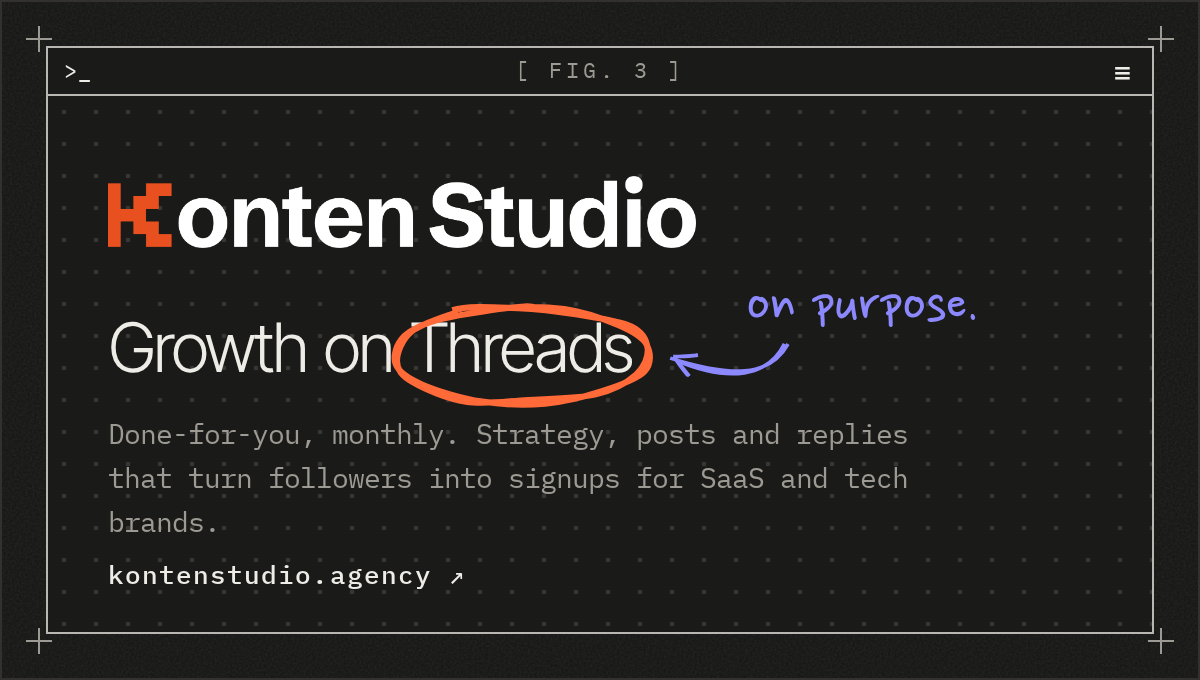
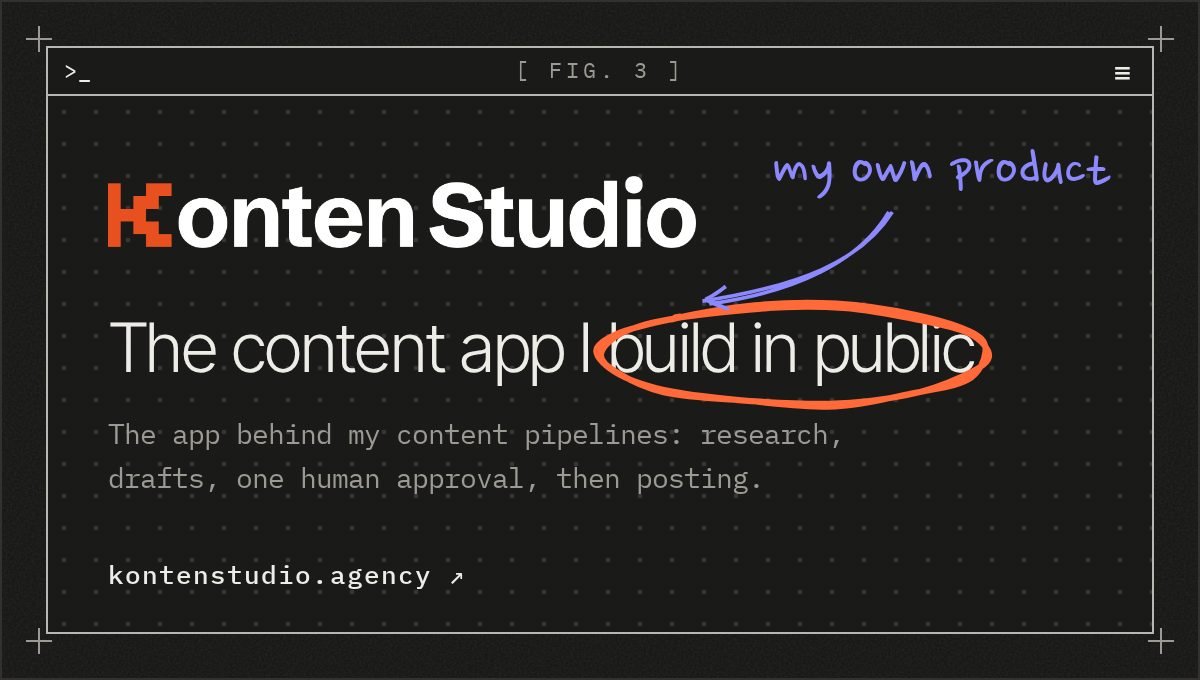
README v2: KS card as my own product built in public (no agency pitch) (#3)
Claude-Session: https://claude.ai/code/session_011L3ztk5N3UU8tGYwqkDUSE

diff --git a/src/build.py b/src/build.py
@@ -82,7 +82,7 @@ document.fonts.ready.then(()=>Promise.all([...document.images].map(i=>i.decode()
 AVATAR = (HERE / "avatar.svg").read_text().replace("<svg ", '<svg class="avatar" ', 1)
 AB = SP / "ai-builders-id_logo/01-primary"
 PK = SP.parent.parent / "peakspec/prototype-peakspec-app/v3/design/brand-kit/logo"  # peakspec v3 brand kit (mark only)
-KS = SP / "konten-studio_logo/01-primary"
+KS = SP.parent.parent / "konten-studio/logo/01-primary"  # repo konten-studio/logo
 
 # ---------------- hero ----------------
 HERO = dict(w=1200, h=580, style="""
@@ -152,11 +152,11 @@ def cards():
   const n=box('note'); arrow([[n.x+n.w*0.35,n.y+n.h+4],[n.x+n.w*0.2,n.y+n.h+40],[n.x-34,n.y+n.h+48]],v('--ballpoint'),33);
 """),
   "card-kontenstudio": card(3, KS / "konten-studio-lockup-trim.png", KS / "konten-studio-lockup-dark-trim.png", 36,
-    'Growth on <span id="hl">Threads</span>',
-    "Done-for-you, monthly. Strategy, posts and replies that turn followers into signups for SaaS and tech brands.",
-    "kontenstudio.agency", ("on purpose.", "left:372px;top:138px"), """
+    'The content app I <span id="hl">build in public</span>',
+    "The app behind my content pipelines: research, drafts, one human approval, then posting.",
+    "kontenstudio.agency", ("my own product", "right:44px;top:70px"), """
   const t=box('hl'); add(rc.ellipse(t.x+t.w/2,t.y+t.h/2+3,t.w+26,t.h+8,{stroke:v('--marker'),strokeWidth:3,roughness:1.5,bowing:1.3,seed:41}));
-  const n=box('note'); arrow([[n.x+20,n.y+n.h+2],[n.x+4,n.y+n.h+26],[t.x+t.w+20,t.y+t.h/2+4]],v('--ballpoint'),43);
+  const n=box('note'); arrow([[n.x+n.w*0.35,n.y+n.h+4],[n.x+n.w*0.2,n.y+n.h+40],[n.x-34,n.y+n.h+48]],v('--ballpoint'),43);
 """)}
 
 def card_peakspec():
